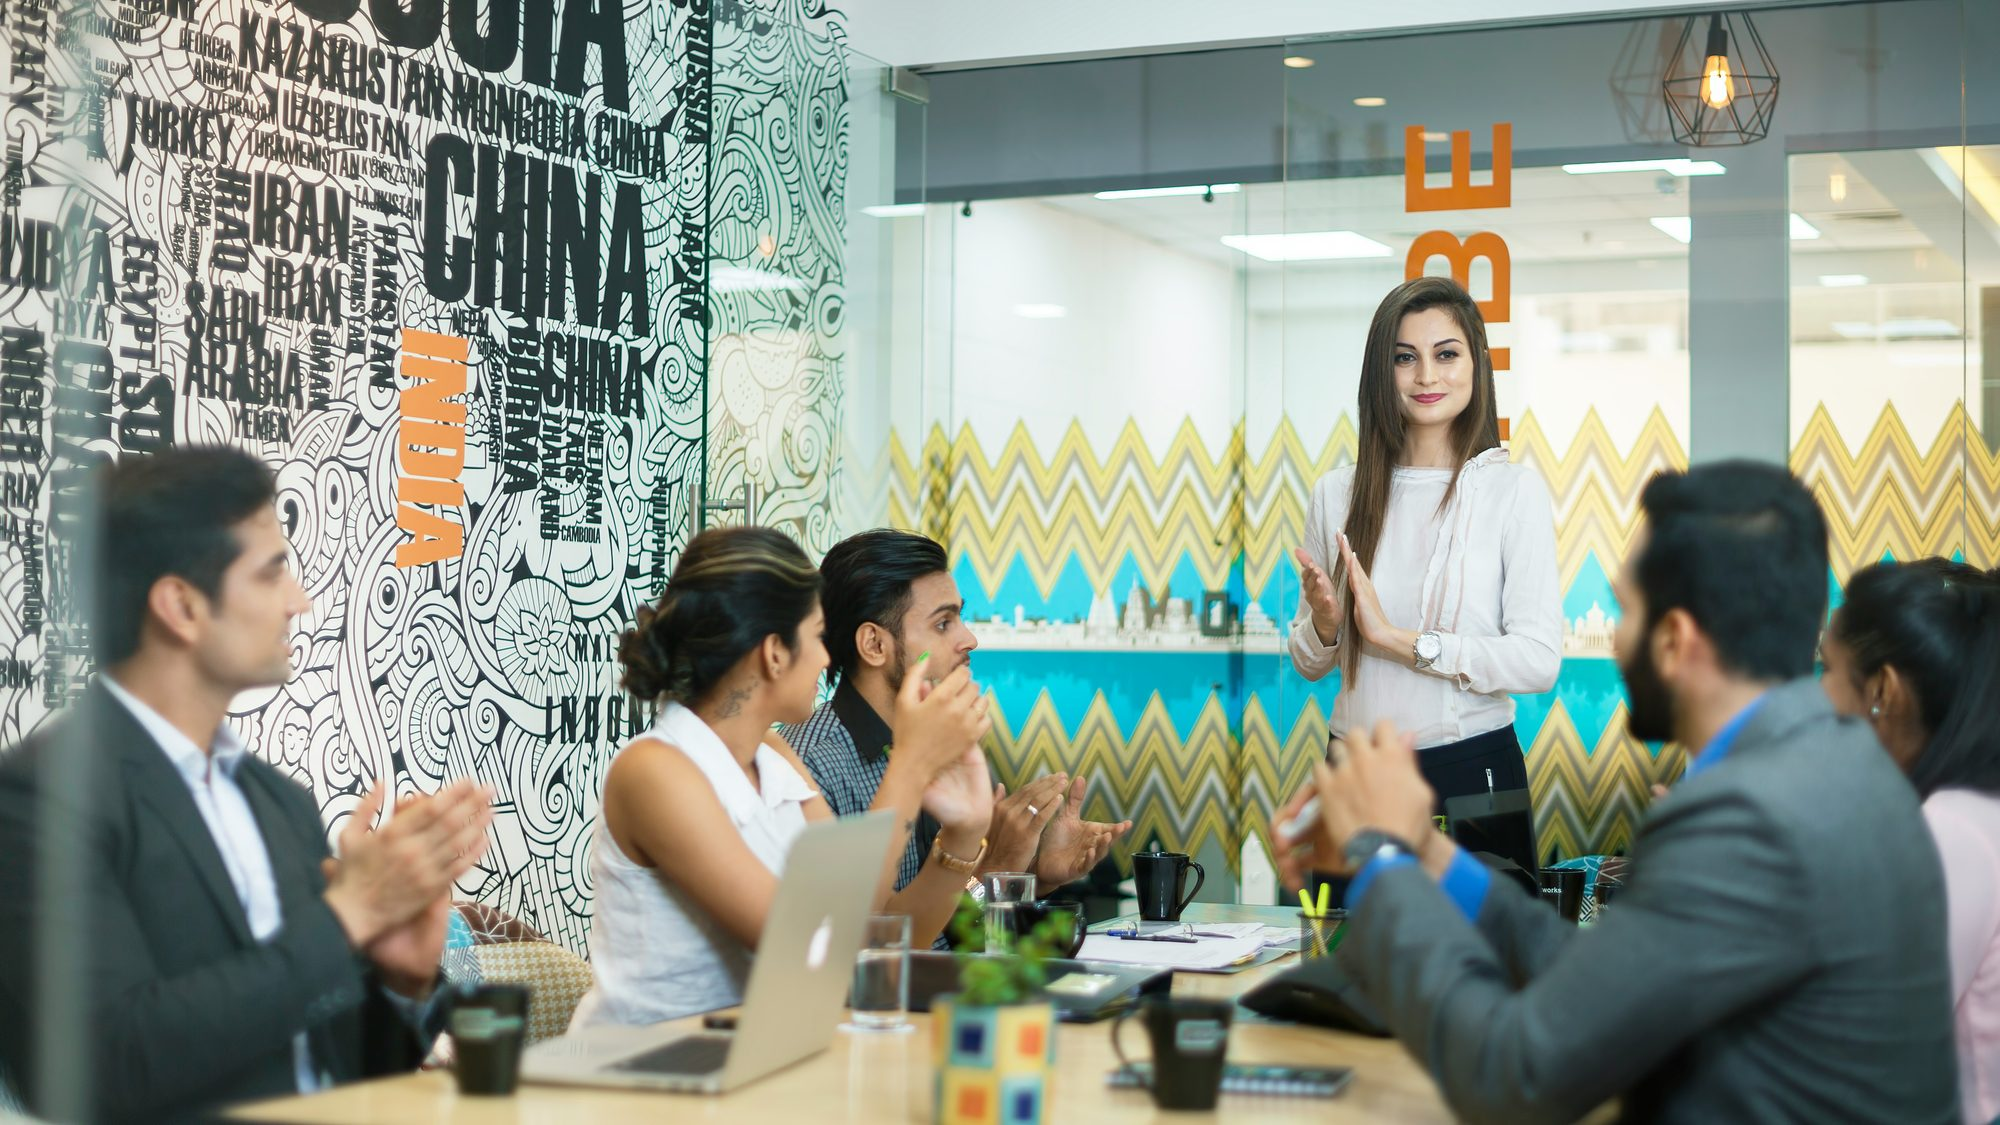
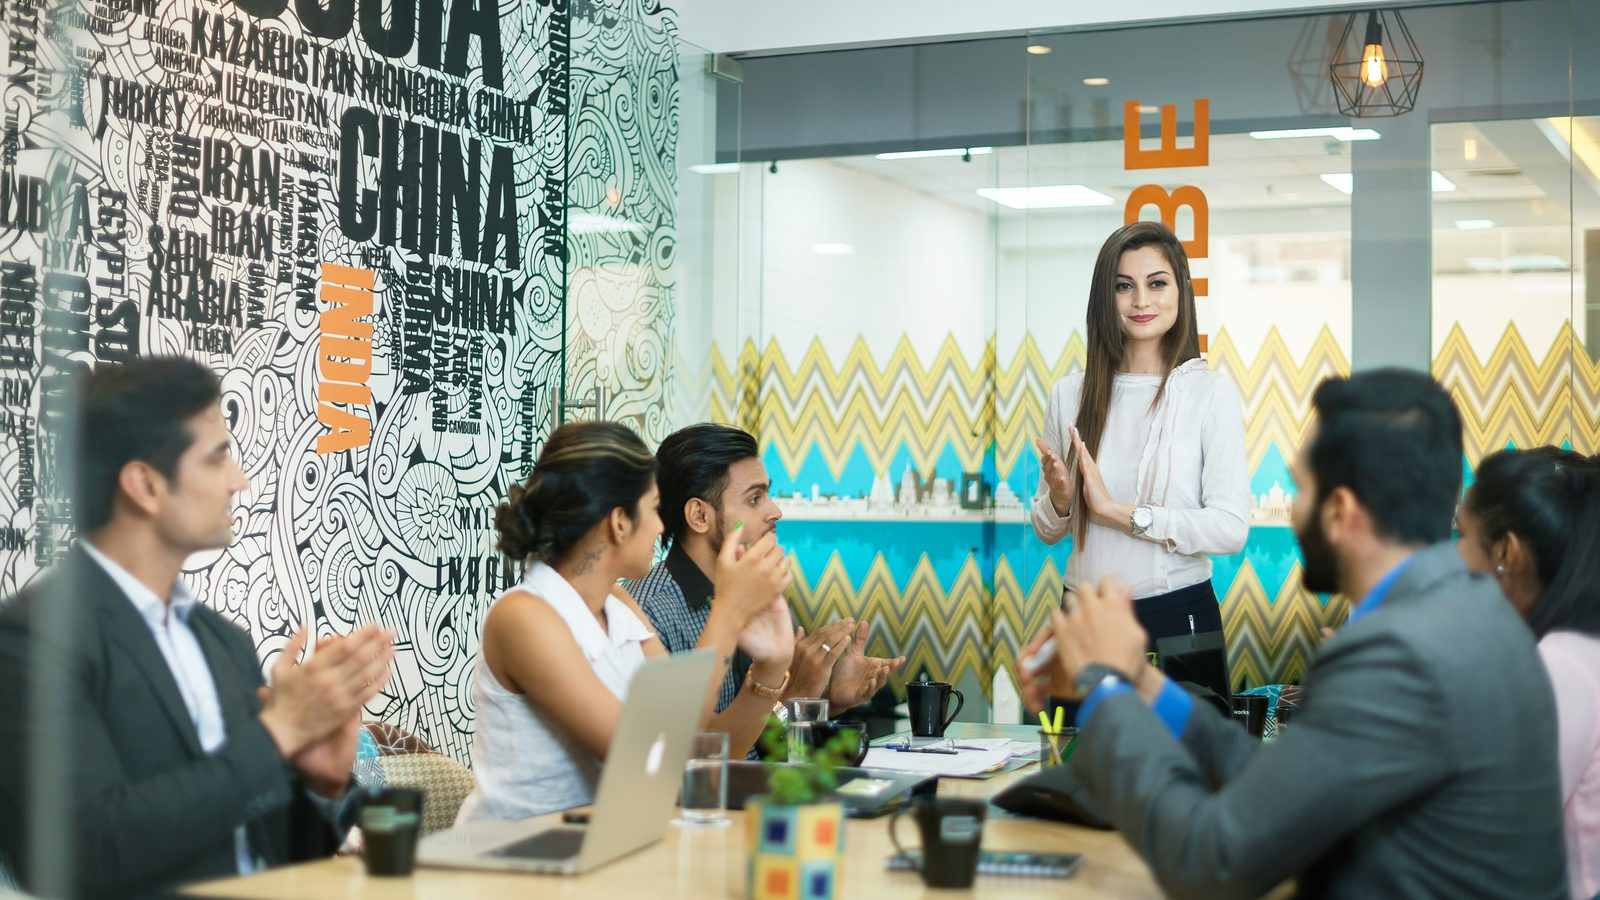
Inquadrature governate, stacchi a lettering, Mentoria a lato (#9)
Il ritaglio era il problema di fondo: le foto erano pre-tagliate a 3:2 e poi
il CSS le riduceva a hero panoramico, card 16/10 e colonna 4/5. Con tre
proporzioni così diverse e nessun riferimento, il soggetto finiva fuori.

Due interventi. Primo: le immagini di sezione sono rigenerate dal fotogramma
pieno, senza pre-ritaglio, così resta margine da cui attingere. Secondo:
StockImage, PageHero e Hero accettano ora un `focus`, cioè il punto da tenere
sempre in inquadratura, e ogni servizio porta il proprio in services.ts. I
valori sono stati scelti simulando i ritagli reali e controllandoli uno a uno:
cessioni teneva la testa fuori dalla colonna, internazionalizzazione tagliava
la relatrice sul bordo.

Stacco a lettering — nuovo LetterBreak nelle pagine servizio, a metà corpo:
grande iniziale cava, numero e claim del servizio. È la direzione indicata dal
cliente («una R per Riorganizzazione») e alleggerisce la lettura senza
consumare fotografie, che non sarebbero bastate per sette pagine.

Mentoria — la foto di Fulvio passa da sfondo a tutta larghezza a ritratto
affiancato sulla destra: nuova prop `sidePhoto` di Hero, con il testo che
resta nella colonna di sinistra.

Blog — i quattro articoli hanno ora una copertina propria, non più presa in
prestito dalle sezioni.

diff --git a/src/data/services.ts b/src/data/services.ts
@@ -67,6 +67,8 @@ export interface Service {
   /** Sezioni H2 aggiuntive, dopo le fasi e prima di «Cosa resta in mano vostra» */
   sections?: Section[];
   faq?: Faq;
+  /** Frase dello stacco a lettering, a metà pagina */
+  claim: string;
   /** «Cosa resta in mano vostra» */
   outcomes: string[];
   /** «Quando ha senso parlarne» */
@@ -80,6 +82,13 @@ export interface Service {
    * Finché è assente le pagine servizio usano l'illustrazione di `art`.
    */
   photo?: string;
+  /**
+   * Punto della foto da tenere sempre in inquadratura. Serve perché lo
+   * stesso scatto viene ritagliato in tre proporzioni molto diverse —
+   * hero panoramico, card 16/10 e colonna 4/5 — e senza questo riferimento
+   * il soggetto finisce fuori dal taglio.
+   */
+  focus?: string;
 }
 
 /**
@@ -91,6 +100,7 @@ export const services: Service[] = [
   {
     slug: 'cessioni-e-acquisizioni',
     photo: '/images/sezioni/ma-e-ricerca-di-capitali.jpg',
+    focus: '60% 30%',
     art: 'deal',
     num: '01',
     title: 'Cessioni, acquisizioni e ricerca di capitali',
@@ -155,6 +165,8 @@ export const services: Service[] = [
         text: 'Gestiamo manifestazioni d’interesse, lettera d’intenti, due diligence e contrattualistica fino alla firma, coordinando legali e fiscalisti. Presidiamo le clausole che contano davvero: earn-out, garanzie, patti parasociali, ruolo del fondatore dopo il closing.',
       },
     ],
+    claim:
+      'Il valore di un’impresa non si negozia: si costruisce nei mesi che precedono la trattativa.',
     outcomes: [
       'Una valutazione documentata, non un’opinione',
       'Una rosa di controparti reali, filtrate e riservate',
@@ -178,6 +190,7 @@ export const services: Service[] = [
   {
     slug: 'finanza-e-ristrutturazione-del-debito',
     photo: '/images/sezioni/finanza-e-ristrutturazione-del-debito.jpg',
+    focus: '50% 42%',
     art: 'growth',
     num: '02',
     title: 'Finanza & ristrutturazione del debito',
@@ -249,6 +262,8 @@ export const services: Service[] = [
         },
       },
     ],
+    claim:
+      'Il debito quasi mai è la malattia: è il sintomo. Si cura risalendo alla causa.',
     outcomes: [
       'Chiarezza su dove si genera e dove si brucia margine',
       'Un piano finanziario sostenibile, non una speranza',
@@ -262,6 +277,7 @@ export const services: Service[] = [
   {
     slug: 'passaggio-generazionale',
     photo: '/images/sezioni/passaggio-generazionale.jpg',
+    focus: '46% 34%',
     art: 'succession',
     num: '03',
     title: 'Passaggio generazionale',
@@ -295,6 +311,8 @@ export const services: Service[] = [
         text: 'Deleghe progressive, affiancamento operativo, percorso di crescita per successori e prime linee. La continuità non si firma: si costruisce nei mesi in cui il fondatore c’è ancora e può ancora insegnare.',
       },
     ],
+    claim:
+      'La continuità non si firma: si costruisce nei mesi in cui il fondatore c’è ancora.',
     outcomes: [
       'Regole scritte prima che servano',
       'Un assetto societario che regge il cambio di guida',
@@ -307,6 +325,7 @@ export const services: Service[] = [
   {
     slug: 'protezione-del-patrimonio',
     photo: '/images/sezioni/protezione-del-patrimonio.jpg',
+    focus: '50% 42%',
     art: 'vault',
     num: '04',
     title: 'Protezione del patrimonio',
@@ -340,6 +359,8 @@ export const services: Service[] = [
         text: 'Le strutture invecchiano, le norme cambiano, le famiglie si allargano. Rivediamo periodicamente l’assetto per mantenerlo coerente con la realtà.',
       },
     ],
+    claim:
+      'La protezione si costruisce quando le acque sono calme. Sotto pressione è già tardi.',
     outcomes: [
       'Una mappa completa e aggiornata di beni ed esposizioni',
       'Una separazione netta e documentata tra impresa e famiglia',
@@ -352,6 +373,7 @@ export const services: Service[] = [
   {
     slug: 'internazionalizzazione',
     photo: '/images/sezioni/internazionalizzazione.jpg',
+    focus: '72% 40%',
     art: 'global',
     num: '05',
     title: 'Internazionalizzazione',
@@ -413,6 +435,8 @@ export const services: Service[] = [
         },
       ],
     },
+    claim:
+      'La domanda giusta non è dove conviene aprire, ma cosa andate a fare.',
     outcomes: [
       'Una scelta del paese motivata dai vostri obiettivi, non dalla moda',
       'Una struttura societaria e bancaria operativa, non solo costituita',
@@ -425,6 +449,7 @@ export const services: Service[] = [
   {
     slug: 'certificazioni-iso-e-made-in-italy',
     photo: '/images/sezioni/certificazioni-iso-e-made-in-italy.jpg',
+    focus: '48% 30%',
     art: 'quality',
     num: '06',
     // TODO-CONTENUTO: verificare con il cliente quali schemi vengono
@@ -461,6 +486,8 @@ export const services: Service[] = [
         text: 'Vi accompagniamo alla verifica con enti di certificazione accreditati e indipendenti, e restiamo per le sorveglianze successive. Poi la parte che quasi tutti dimenticano: usare la certificazione. Nei bandi, nei capitolati, nella documentazione commerciale, nella relazione con i clienti esteri.',
       },
     ],
+    claim:
+      'La certificazione non serve a diventare migliori: serve a renderlo dimostrabile.',
     outcomes: [
       'Gli schemi giusti per i mercati che vi interessano',
       'Un sistema di gestione che rispecchia l’azienda vera',
@@ -473,6 +500,7 @@ export const services: Service[] = [
   {
     slug: 'riorganizzazione-e-sviluppo',
     photo: '/images/sezioni/riorganizzazione-e-sviluppo.jpg',
+    focus: '54% 32%',
     art: 'boardroom',
     num: '07',
     title: 'Riorganizzazione e sviluppo',
@@ -505,6 +533,8 @@ export const services: Service[] = [
         text: 'Le riorganizzazioni falliscono nell’esecuzione, non nel disegno. Restiamo nei mesi in cui il nuovo assetto va reso abitudine.',
       },
     ],
+    claim:
+      'Le riorganizzazioni falliscono nell’esecuzione, non nel disegno.',
     outcomes: [
       'Responsabilità assegnate e messe per iscritto',
       'Pochi indicatori, letti con regolarità',

diff --git a/src/data/editorial-posts.ts b/src/data/editorial-posts.ts
@@ -48,8 +48,8 @@ export const editorialPosts: Post[] = [
     date: new Date('2026-08-04'),
     author: 'Redazione',
     featuredImage: {
-      url: '/images/sezioni/internazionalizzazione.jpg',
-      alt: 'Sede direzionale di un hub finanziario internazionale',
+      url: '/images/sezioni/blog-sede-estera.jpg',
+      alt: 'Torri direzionali di vetro di un distretto d\u2019affari',
     },
   },
 
@@ -85,7 +85,7 @@ export const editorialPosts: Post[] = [
       'Il momento giusto per cedere non si riconosce dallo stato d’animo, ma dalla curva su cui si trova l’azienda: i segnali, i tempi e cosa si prepara prima.',
     date: new Date('2026-06-18'),
     author: 'Redazione',
-    featuredImage: { url: '/images/sezioni/ma-e-ricerca-di-capitali.jpg', alt: 'Stretta di mano al tavolo di un\u2019operazione' },
+    featuredImage: { url: '/images/sezioni/blog-vendere-azienda.jpg', alt: 'Tavolo di trattativa in uno studio' },
   },
 
   {
@@ -117,7 +117,7 @@ export const editorialPosts: Post[] = [
       'Rimandare, non scrivere le regole, confondere eredità e guida: i tre errori più frequenti nelle imprese familiari e come si prevengono per tempo.',
     date: new Date('2026-05-30'),
     author: 'Redazione',
-    featuredImage: { url: '/images/sezioni/passaggio-generazionale.jpg', alt: 'Passaggio di competenze in azienda' },
+    featuredImage: { url: '/images/sezioni/blog-passaggio.jpg', alt: 'Passaggio di competenze in azienda' },
   },
 
   {
@@ -150,6 +150,6 @@ export const editorialPosts: Post[] = [
       'Family office e fondi sovrani guardano al Made in Italy: cosa valutano davvero, come cambiano tempi e due diligence, cosa preparare prima del tavolo.',
     date: new Date('2026-05-12'),
     author: 'Redazione',
-    featuredImage: { url: '/images/sezioni/protezione-del-patrimonio.jpg', alt: 'Grattacieli di un distretto direzionale' },
+    featuredImage: { url: '/images/sezioni/blog-capitali-golfo.jpg', alt: 'Studio direzionale affacciato sullo skyline' },
   },
 ];
